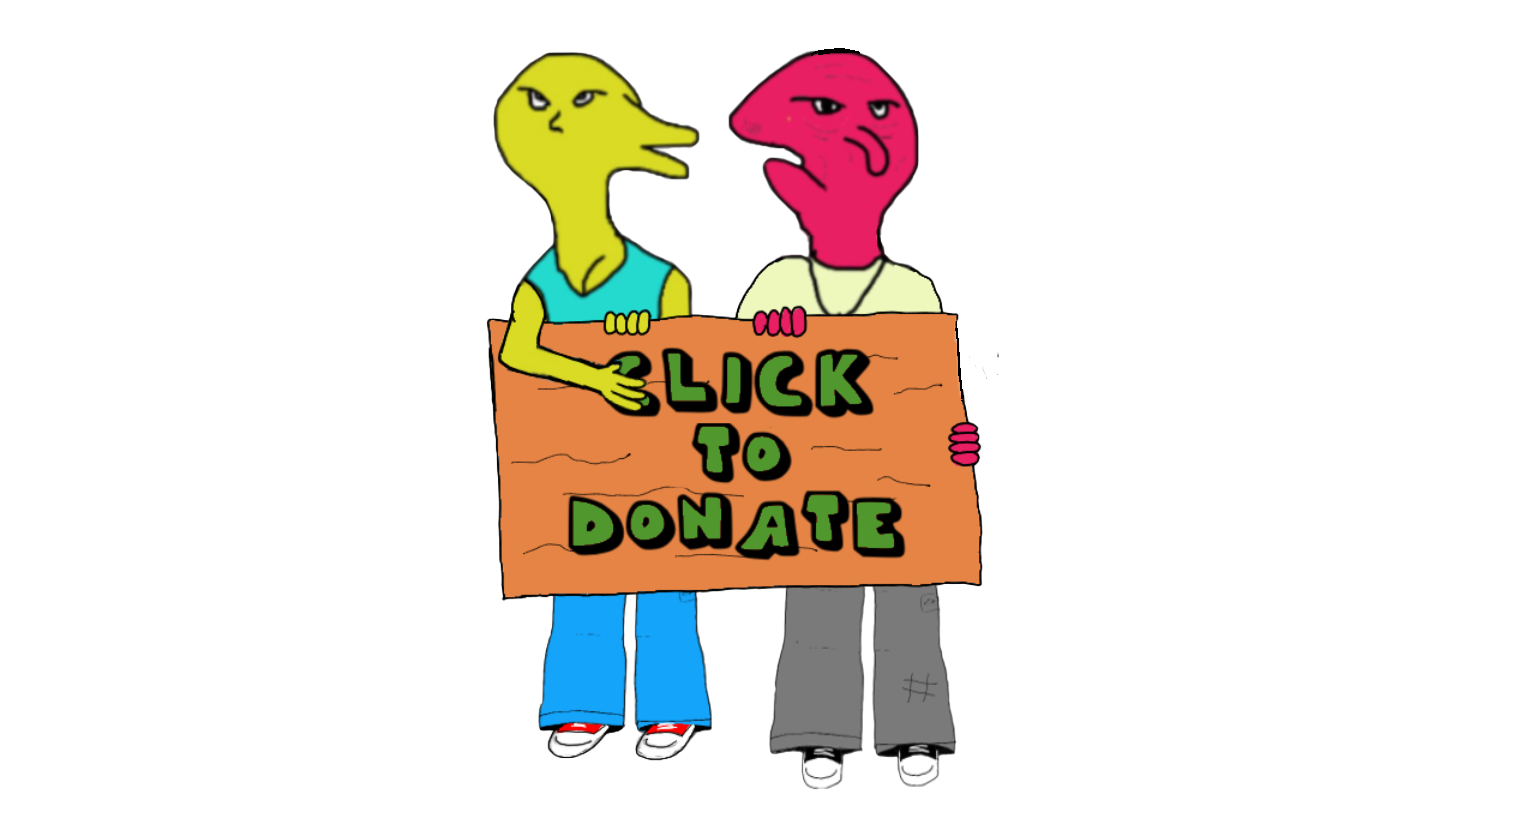
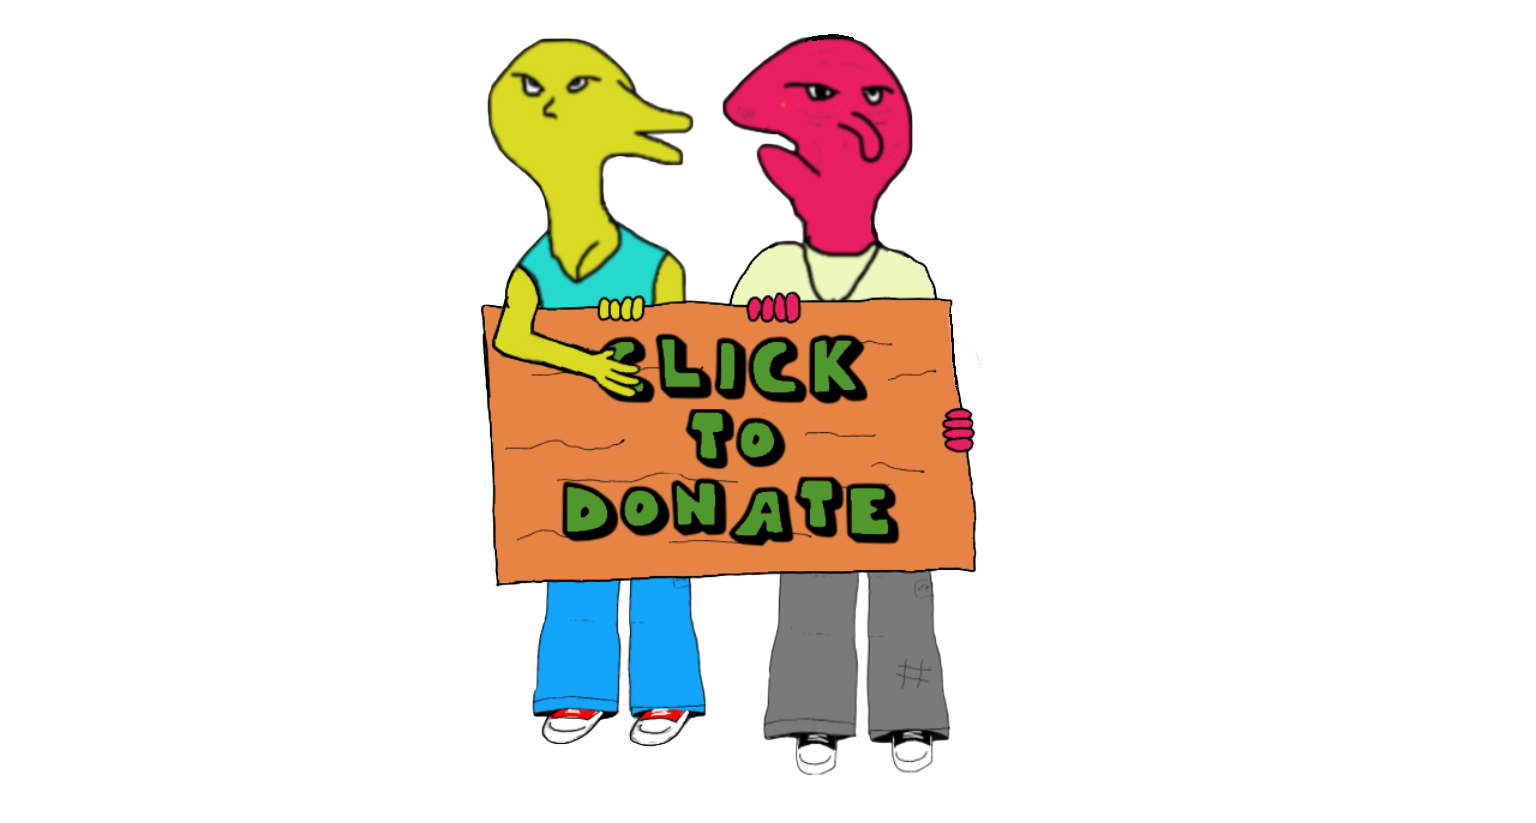
new donatebtn

Changed region(s): [[0.3125, 0.0304, 0.6562, 0.9721]]

diff --git a/app/assets/stylesheets/_info.scss b/app/assets/stylesheets/_info.scss
@@ -98,7 +98,7 @@ h5.overHead {
   }
   .donateGuys {
     height: 300px;
-    width: 440px;
+    width: 350px;
     margin-left: -1em;
   }
   h5.overHead {
